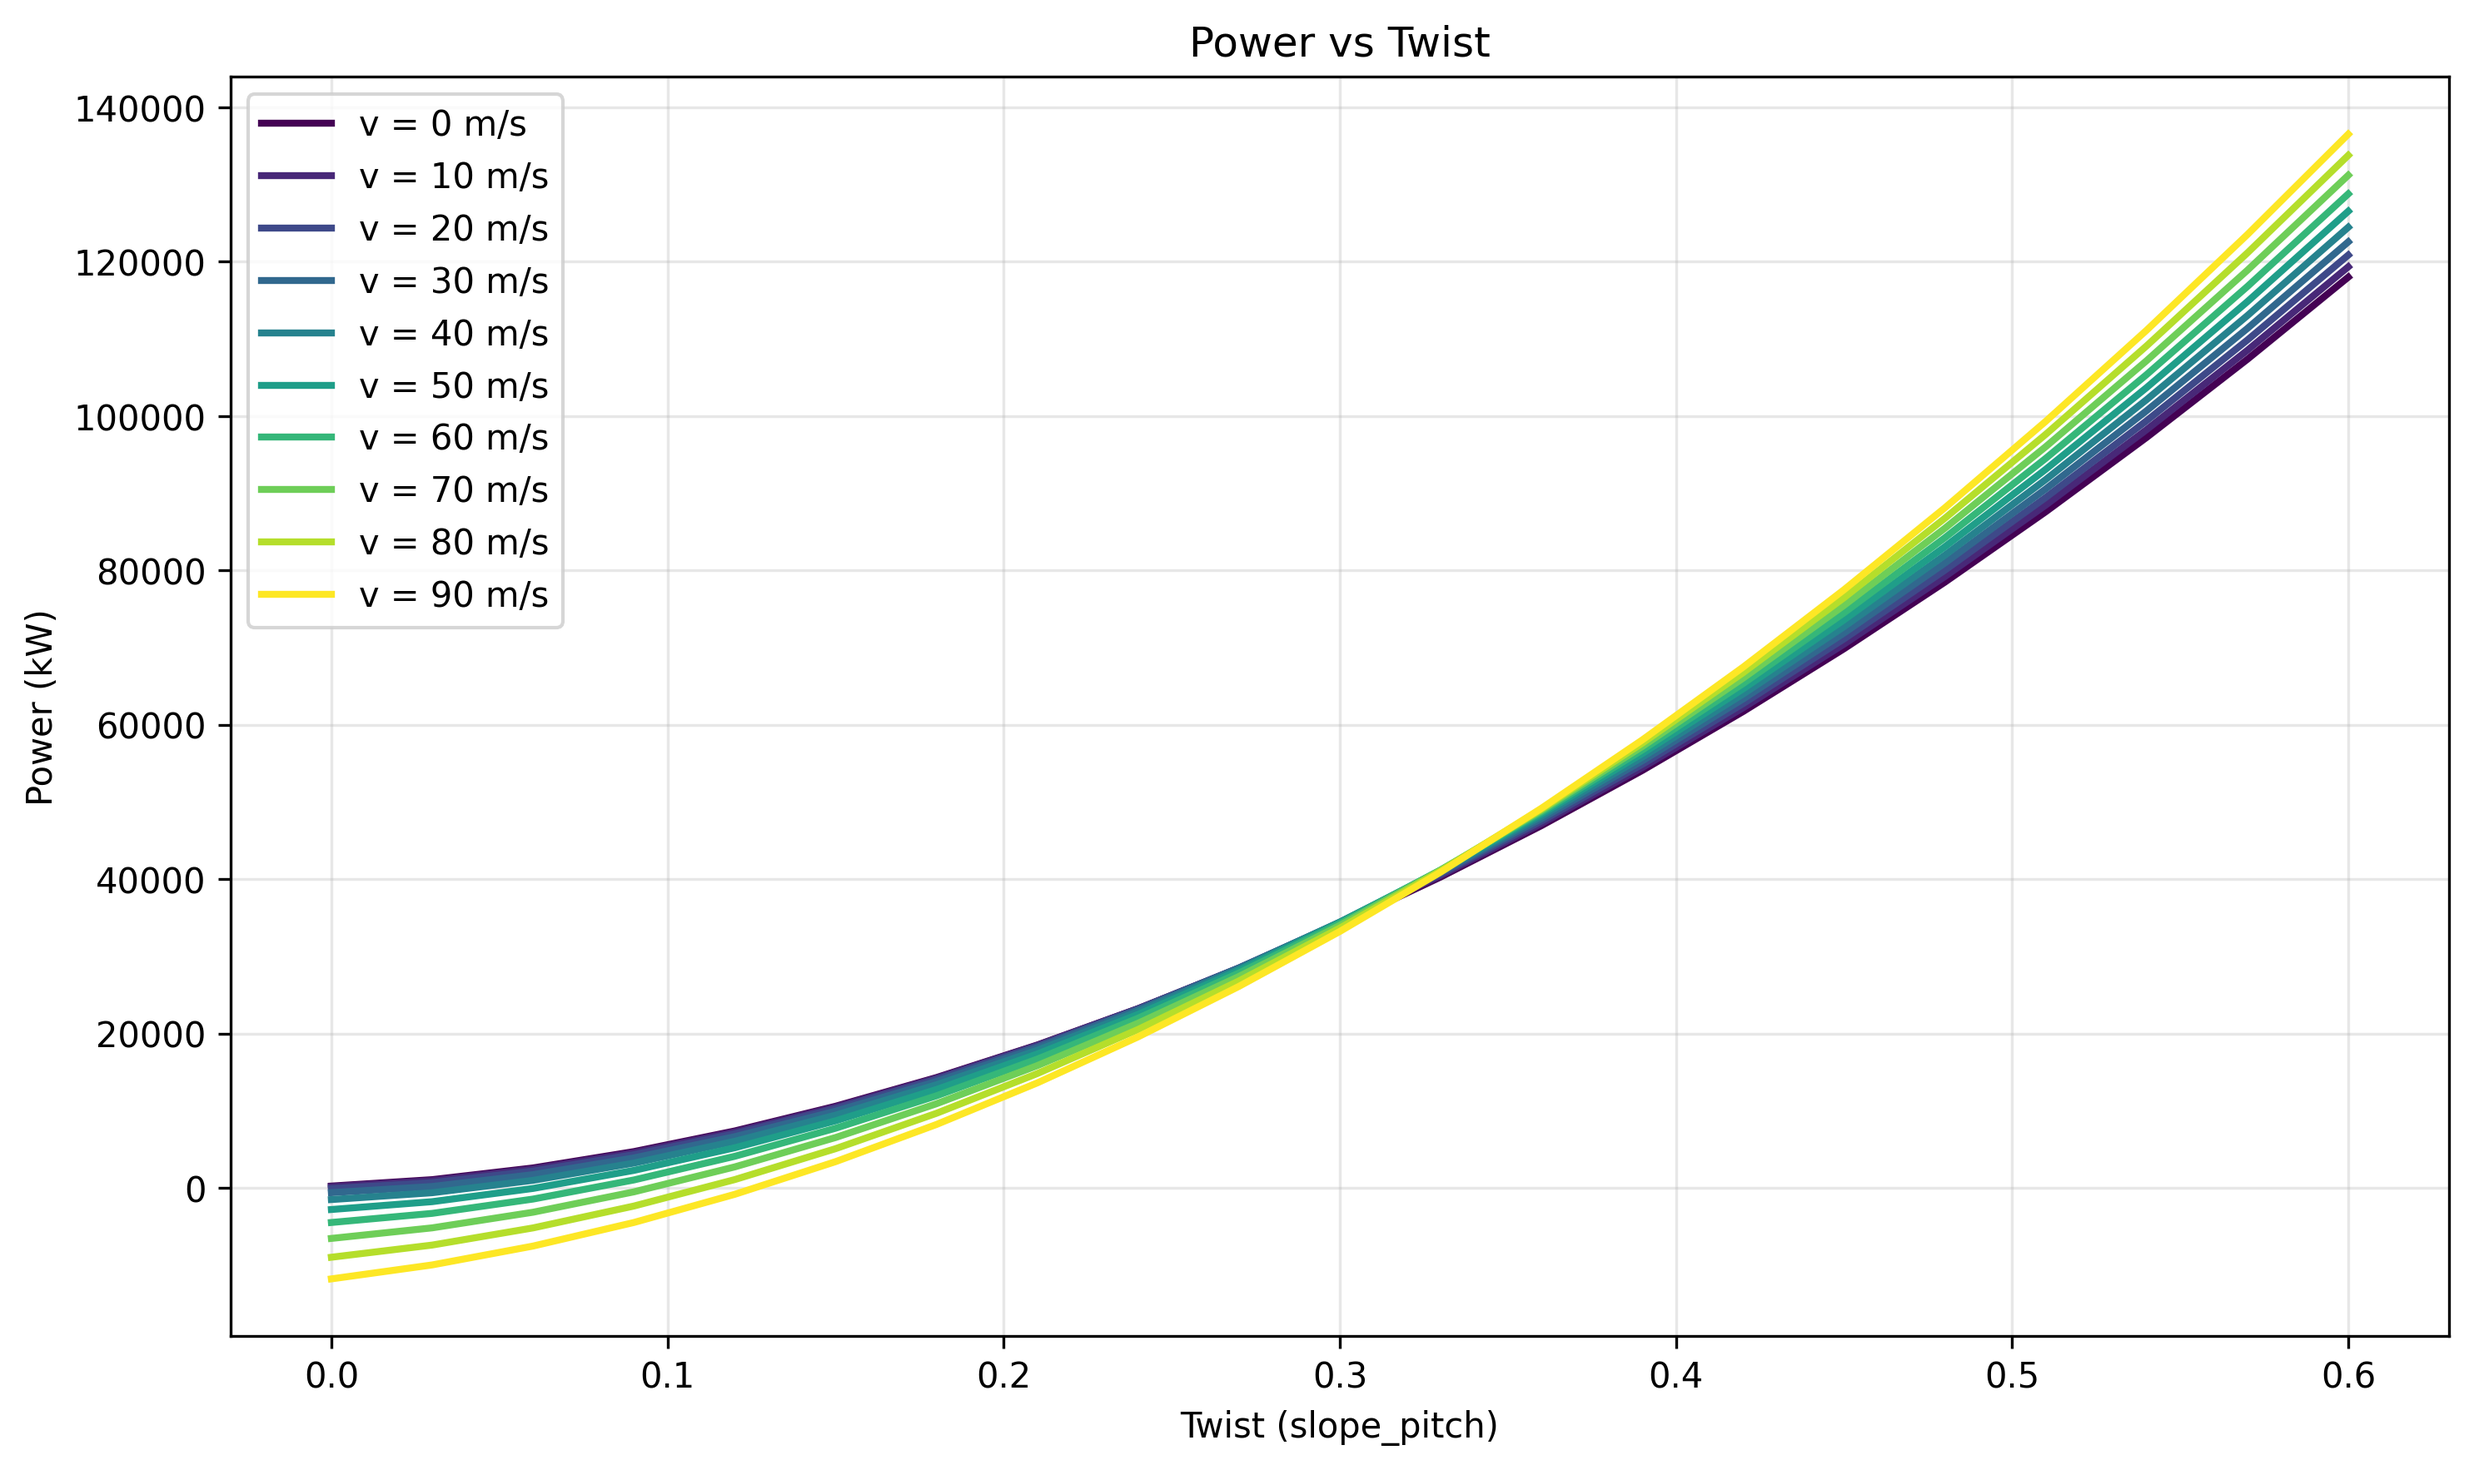
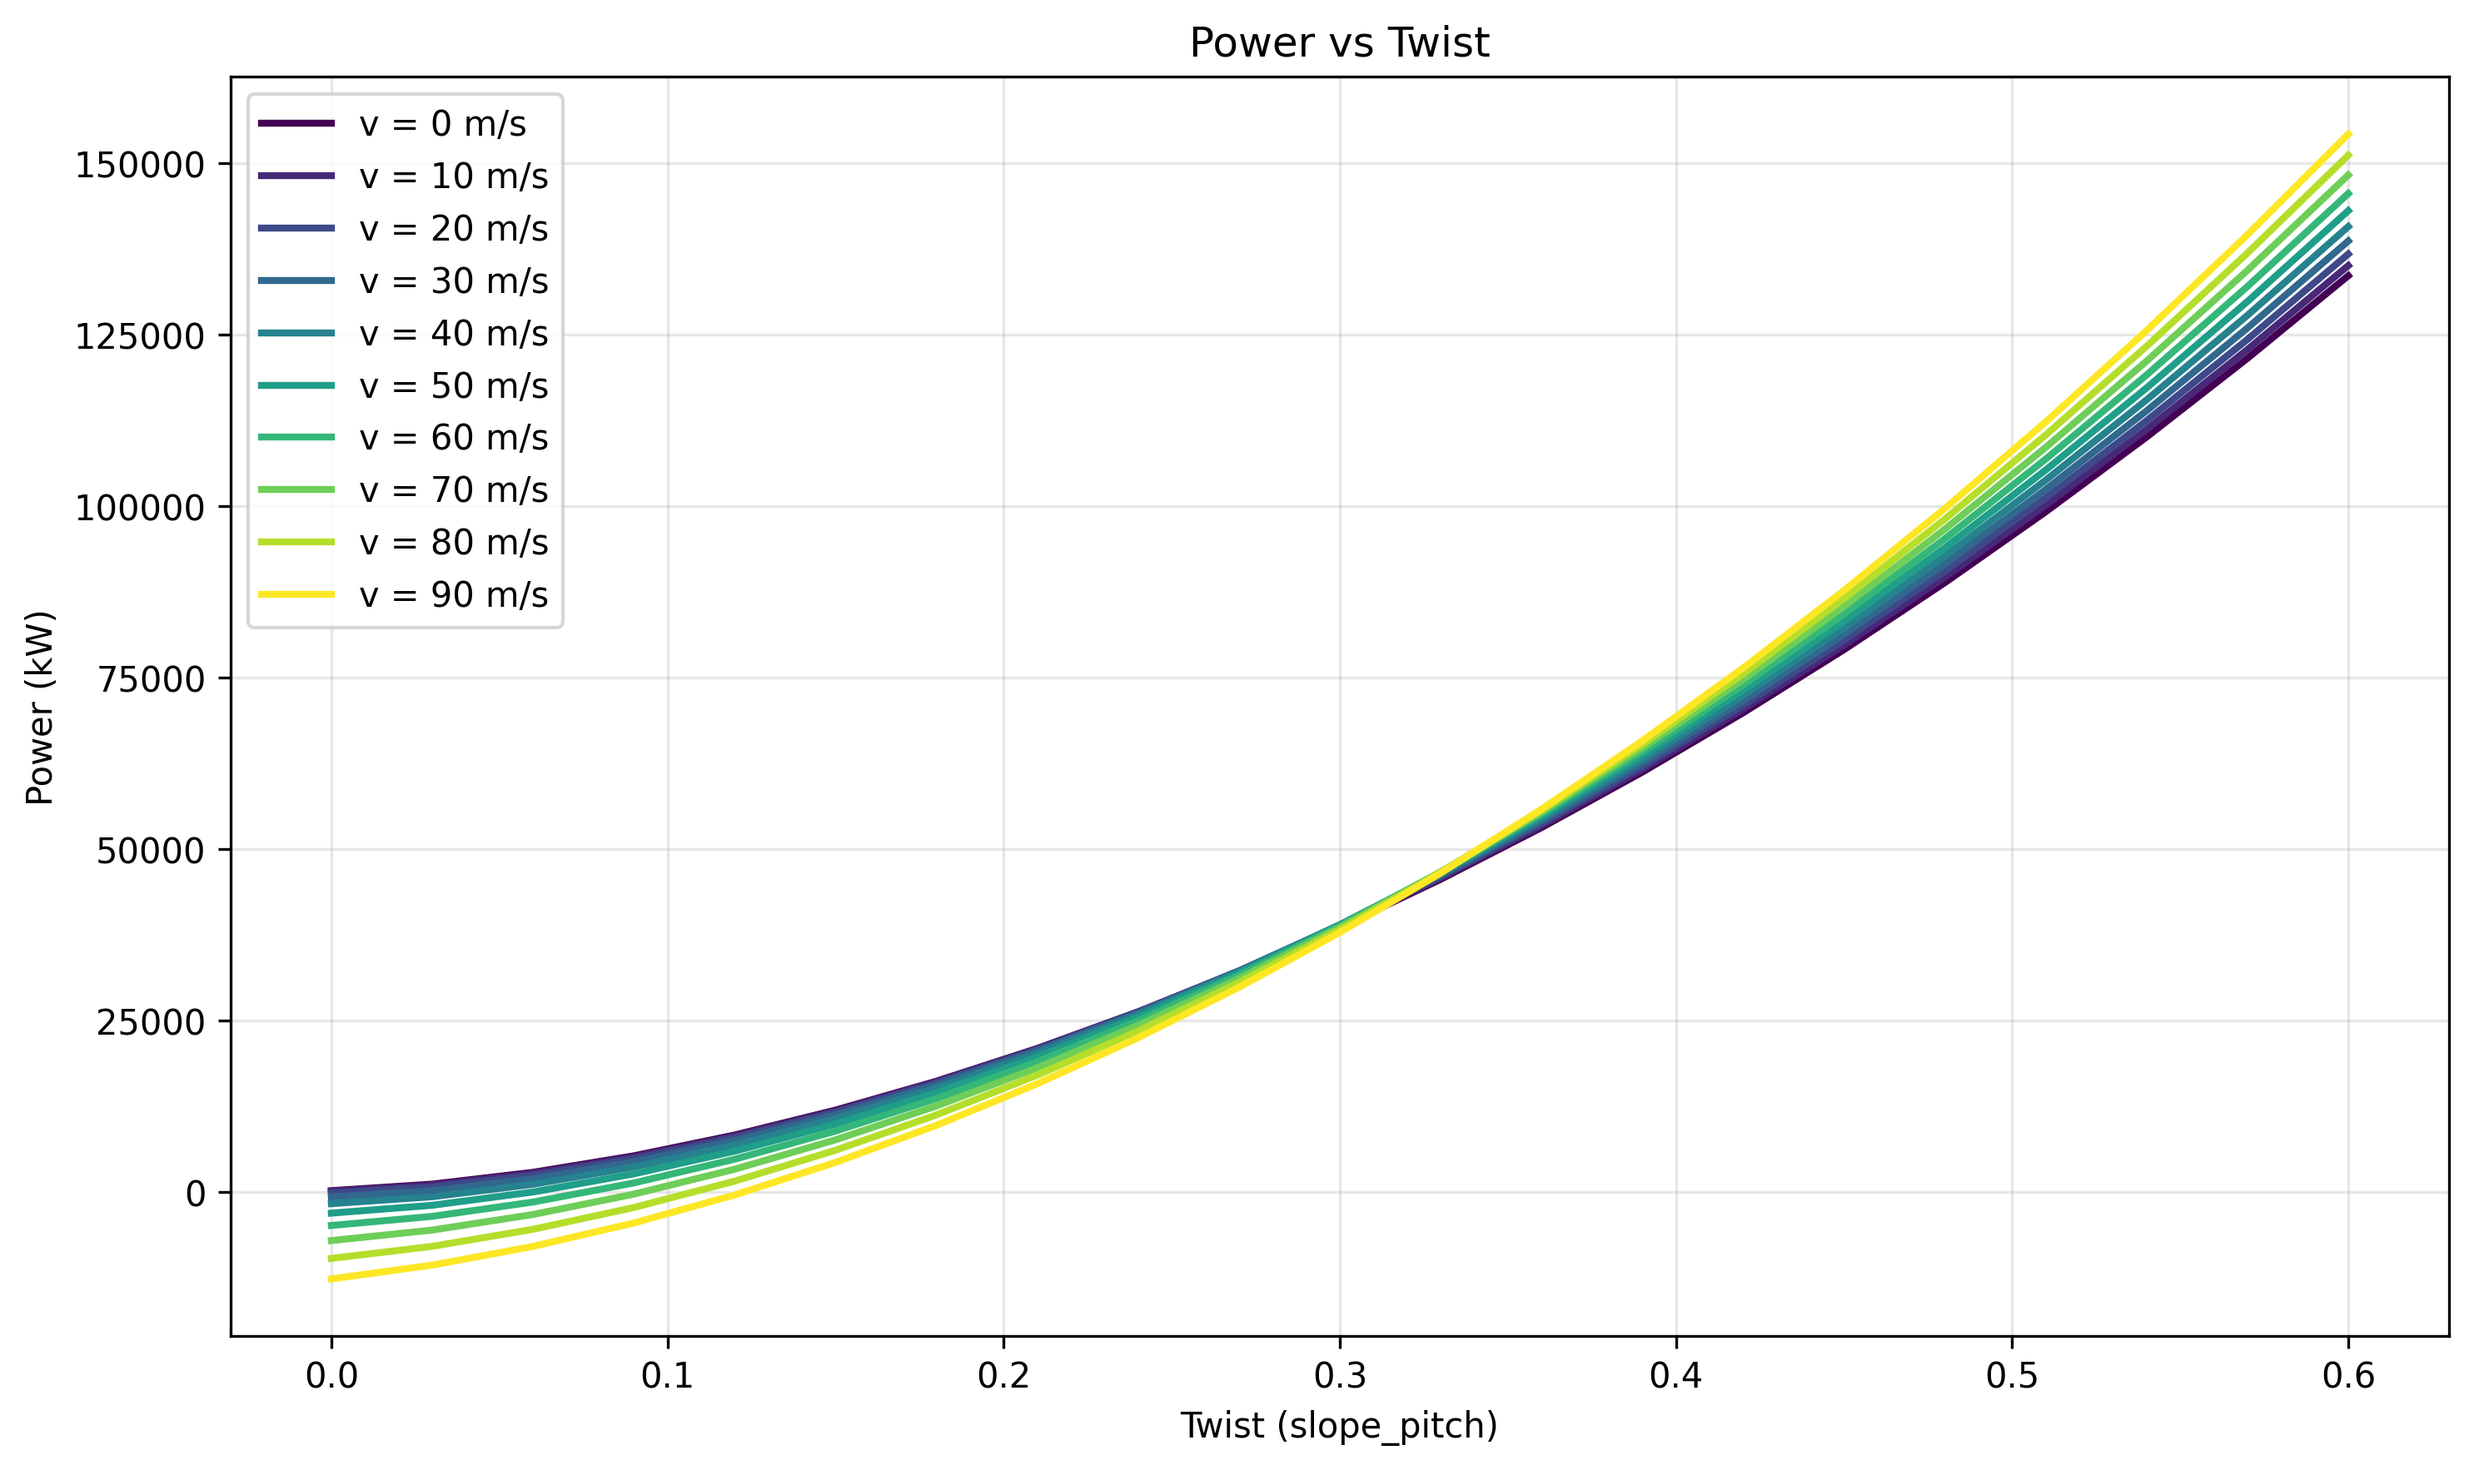
Added stalling effect

diff --git a/heli.py b/heli.py
@@ -3,6 +3,7 @@ from typing import Optional, Tuple, Dict, List, Union
 import numpy as np
 import matplotlib.pyplot as plt
 import pandas as pd
+from scipy.optimize import minimize_scalar
 from time import sleep
 
 class Environment:
@@ -88,6 +89,7 @@ class Rotor:
         self.tip_chord: Optional[float] = None
         self.root_pitch: Optional[float] = None
         self.slope_pitch: Optional[float] = None
+        self.default_airfoil:bool = True
 
     def get_rotor_parameters(self) -> None:
         self.parameters_set = True
@@ -101,11 +103,22 @@ class Rotor:
         self.tip_chord = float(input("Please enter the tip chord (m): "))
         self.root_pitch = np.deg2rad(float(input("Please enter the root pitch (degrees): ")))
         self.slope_pitch = float(input("Please enter the slope of the pitch: "))
-
+        custom_file:bool = False
+        if(input("Do you want to provide a custom aero csv file with cl, cd and cm? (y/n): ").lower() == 'y'):
+            custom_file = True
+            self.aero_filepath = input("Please enter the path to the custom aero csv file: ")
+            
+            try:
+                self._build_aero_polynomials(self.aero_filepath)
+                self.default_airfoil = False
+            except Exception as e:
+                print(f"Error building aero polynomials: {e}")
+                print("Switching to default airfoil")
+                self.default_airfoil = True
 
     def set_rotor_parameters(self, number_of_blades: int, blade_mass: float,
                            NACA_for_airfoil: str, radius_of_rotors: float, root_cutout: float, root_chord: float, tip_chord: float,
-                           root_pitch: float, slope_pitch: float) -> None:
+                           root_pitch: float, slope_pitch: float, filepath:str = None) -> None:
         self.parameters_set = True
         self.number_of_blades = number_of_blades
         self.blade_mass = blade_mass
@@ -116,6 +129,61 @@ class Rotor:
         self.tip_chord = tip_chord
         self.root_pitch = np.deg2rad(root_pitch)
         self.slope_pitch = slope_pitch
+        if filepath is not None:
+            self.aero_filepath = filepath
+            try:
+                self._build_aero_polynomials(self.aero_filepath)
+                self.default_airfoil = False
+            except Exception as e:
+                print(f"Error building aero polynomials: {e}")
+                print("Switching to default airfoil")
+                self.default_airfoil = True
+
+    # def set_aero_data_file(self, filename: str) -> None:
+    #     """Set the aero data file and build Cl, Cd functions"""
+    #     self.aero_filepath = filename
+    #     self._build_aero_polynomials()
+
+    def _build_aero_polynomials(self, filepath, degree: int = 4):
+        """Read aero table and fit polynomials for Cl(α) and Cd(α)."""
+        if self.aero_filepath is None:
+            raise ValueError("Aero data file not set. Call set_aero_data_file(filename).")
+
+        try:
+            df = pd.read_csv(filepath, delim_whitespace=True,
+                             names=["alpha", "cl", "cd", "cm"], comment='#')
+        except Exception as e:
+            raise ValueError(f"Could not read aero file '{filepath}': {e}")
+
+        if df.empty:
+            raise ValueError(f"Aero file '{filepath}' is empty or not in expected format.")
+
+        alpha = df["alpha"].to_numpy()
+        cl = df["cl"].to_numpy()
+        cd = df["cd"].to_numpy()
+        cm = df["cm"].to_numpy()
+        
+
+        # Fit polynomials
+        temp_poly = np.poly1d(np.polyfit(alpha, cl, degree))
+        res = minimize_scalar(lambda x: -temp_poly(x),
+                              bounds=(alpha.min(), alpha.max()), method='bounded')
+        self.alpha_stall = res.x
+        # self.cl_stall = temp_poly(self.alpha_stall)
+        
+
+        self.alpha_cutoff = 0.93 * self.alpha_stall
+        mask = alpha <= self.alpha_cutoff
+
+        alpha_pre_stall = alpha[mask]
+        cl_pre_stall = cl[mask]
+        cd_pre_stall = cd[mask]
+
+        self.cl_poly = np.poly1d(np.polyfit(alpha_pre_stall, cl_pre_stall, degree))
+        self.cd_poly = np.poly1d(np.polyfit(alpha, cd_pre_stall, degree))
+
+
+
 
     def get_chord_length(self, x: float) -> float:
         # Function to get chord_length at a given location.
@@ -205,19 +273,29 @@ class Rotor:
         theta: float = self.get_pitch(r_distance)
         return theta - phi
 
-    def get_cL(self, r_distance: float, climb_velocity: float, omega: float, lambda_inflow: float = None, a: float = 5.75) -> float:
+    def get_cL(self, r_distance: float, climb_velocity: float, omega: float, lambda_inflow: float = None, a: float = 5.75) -> Tuple[float, bool]:
         if not self.parameters_set:
             raise ValueError("Rotor parameters have not been set.")
         alpha_eff: float = self.get_alpha_effective_r(r_distance, climb_velocity, omega, lambda_inflow)
-        return a * alpha_eff
+        compressibility_factor = 1.0/np.sqrt(1 - (self.environment.get_mach_number(omega * r_distance, self.environment.get_temperature())**2))
+        if(self.default_airfoil):
+            return a * alpha_eff * compressibility_factor, False
+        else:
+            return self.cl_poly(np.degrees(alpha_eff)) * compressibility_factor, alpha_eff > self.alpha_stall
 
     def get_cD(self, r_distance: float, climb_velocity: float, omega: float, lambda_inflow: float = None, CD0: float = 0.0113,
-             k: float = 0.037807, a: float = 5.75) -> float:
+             k: float = 0.037807, a: float = 5.75) -> Tuple[float, bool]:
 
         if not self.parameters_set:
             raise ValueError("Rotor parameters have not been set.")
         alpha_eff: float = self.get_alpha_effective_r(r_distance, climb_velocity, omega, lambda_inflow)
-        return CD0 + k * ((a * alpha_eff) ** 2)
+        compressibility_factor = 1.0/np.sqrt(1 - (self.environment.get_mach_number(omega * r_distance, self.environment.get_temperature())**2))
+        if(self.default_airfoil):
+            return CD0 + k * ((a * alpha_eff) ** 2) * compressibility_factor, False
+        else:
+            return self.cd_poly(np.degrees(alpha_eff)) * compressibility_factor, alpha_eff > self.alpha_stall 
+
+
 
     def elemental_thrust(self, r_distance: float, dr: float, climb_velocity: float, omega:float,
                         density: float = None) -> float:
@@ -252,8 +330,8 @@ class Rotor:
         lambda_inflow, F = self.elemental_inflow_ratio(r_distance, climb_velocity, omega)
         
         # Get aerodynamic coefficients
-        cl: float = self.get_cL(r_distance, climb_velocity, omega, lambda_inflow)
-        cd: float = self.get_cD(r_distance, climb_velocity, omega, lambda_inflow)
+        cl, _ = self.get_cL(r_distance, climb_velocity, omega, lambda_inflow)
+        cd, _ = self.get_cD(r_distance, climb_velocity, omega, lambda_inflow)
         phi: float = self.get_phi_r(r_distance, climb_velocity, omega, lambda_inflow)
         chord: float = self.get_chord_length(r_distance)
         
@@ -287,8 +365,8 @@ class Rotor:
         lambda_inflow, F = self.elemental_inflow_ratio(r_distance, climb_velocity, omega)
         
         # Get aerodynamic coefficients
-        cl: float = self.get_cL(r_distance, climb_velocity, omega, lambda_inflow)
-        cd: float = self.get_cD(r_distance, climb_velocity, omega, lambda_inflow)
+        cl, _ = self.get_cL(r_distance, climb_velocity, omega, lambda_inflow)
+        cd, _ = self.get_cD(r_distance, climb_velocity, omega, lambda_inflow)
         phi: float = self.get_phi_r(r_distance, climb_velocity, omega, lambda_inflow)
         chord: float = self.get_chord_length(r_distance)
         
@@ -410,8 +488,8 @@ class Rotor:
         for i in range(len(r)):
             chord: float = self.get_chord_length(r[i])
             lambda_inflow, F = self.elemental_inflow_ratio(r[i], climb_velocity, omega)
-            cl: float = self.get_cL(r[i], climb_velocity, omega, lambda_inflow)
-            cd: float = self.get_cD(r[i], climb_velocity, omega, lambda_inflow)
+            cl, _ = self.get_cL(r[i], climb_velocity, omega, lambda_inflow)
+            cd, _ = self.get_cD(r[i], climb_velocity, omega, lambda_inflow)
             phi: float = self.get_phi_r(r[i], climb_velocity, omega, lambda_inflow=lambda_inflow)
 
             velocity_squared: float = (omega * r[i]) ** 2 + (lambda_inflow * omega * self.radius_of_rotors) ** 2
@@ -455,6 +533,16 @@ class Rotor:
         if(abs(thrust - thrust_needed) > 10*tol):
             print("Warning: Omega calculation did not converge")
         return omega
+
+    def is_rotor_stalling(self, vertical_velocity: float, omega: float, divisions: int = 10) -> bool:
+        if(self.default_airfoil):
+            return False
+        dr = self.radius_of_rotors / divisions
+        for i in range(divisions):
+            _, stalling = self.get_cL(r_distance=i * dr, climb_velocity=vertical_velocity, omega=omega)
+            if stalling:
+                return True
+        return False
 
 class Helicopter:
     """Aircraft Helicopter Parameters from the user"""
@@ -617,8 +705,12 @@ class Helicopter:
         return performance['power'] + tail_power
 
     def is_helicopter_stalling(self, vertical_velocity: float, altitude: float, omega: float = None) -> bool:
-        pass
-        return False
+        temperature = self.environment.get_temperature(altitude)
+        density = self.environment.get_density(temperature)
+        performance = self.main_rotor.calculate_performance(vertical_velocity, omega, density)
+        tail_omega = self.tail_rotor.find_omega_needed_uncoupled(thrust_needed=performance['torque']/(self.tail_rotor_position - self.main_rotor_position), vertical_velocity=0, altitude=altitude, initial_guess=omega*np.sqrt(self.main_rotor.radius_of_rotors/self.tail_rotor.radius_of_rotors))
+        is_heli_stalling = self.main_rotor.is_rotor_stalling(vertical_velocity, omega, altitude) or self.tail_rotor.is_rotor_stalling(0, tail_omega, altitude)
+        return is_heli_stalling
 
     
 
